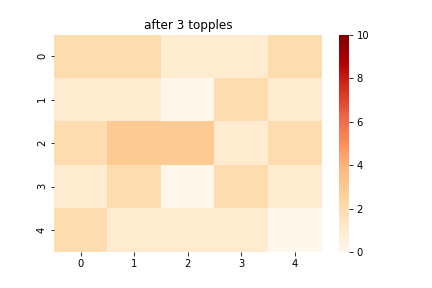
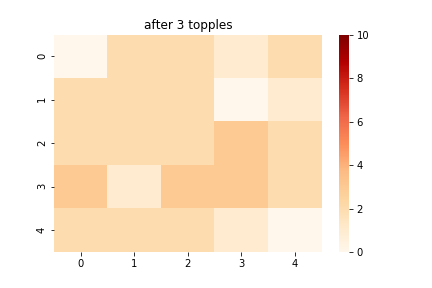
day 4: incorrect stabilizing

Changed region(s): [[0.1204, 0.0938, 0.7523, 0.875]]

diff --git a/sandpile.py b/sandpile.py
@@ -1,5 +1,9 @@
 import numpy as np
 import scipy as sp
+import seaborn as sns
+import sys
+
+sys.setrecursionlimit(10000)
 
 class SandPile():
     """SandPile class
@@ -61,17 +65,21 @@ class SandPile():
 
             coordinates = np.array((x_coordinates, y_coordinates)).T
 
-        for x, y in coordinates:
+            for x, y in coordinates:
 
-            self.grid[x][y] += 1
+                self.grid[x][y] += 1
+
+        else:
+
+            self.grid[site[0], site[1]] += 1
 
 
         self.mass_history = np.append(self.mass_history, n)
         self.time += 1
 
-
-        print(f"grid now:")
-        print(f"{self.grid}")
+        # VERY USEFUL DEBUG LOOK AT EACH GRID
+        # print(f"grid now:")
+        # print(f"{self.grid}")
 
 
     def mass(self):
@@ -163,10 +171,16 @@ class SandPile():
         the avalanche in the appropriate variables.
 
         """
+        centre = [int(self.grid.shape[0]/2), int(self.grid.shape[1]/2)]
+
         # keep dropping sand until there's a topple.
         if self.topples == 0 and np.amax(self.grid) < 4:
 
             self.drop_sand(n)
+            self.time += 1
+
+            np.append(self.mass_history, self.mass())
+
 
         for x in range(self.grid.shape[0]):
             for y in range(self.grid.shape[1]):
@@ -182,8 +196,10 @@ class SandPile():
                     # Update avalanche parameters
 
                     # Keep track of the number of topples,
-                    old = self.topples
+
                     self.topples += 1
+
+                    self.time += 1
 
                     # sand lost
                     self.loss += self.sand_loss(site)
@@ -191,6 +207,8 @@ class SandPile():
                     # Now delete sand at toppling site. It is important to do this
                     # only after calling sand_loss
                     self.grid[site] -= 4
+
+                    np.append(self.mass_history, self.mass())
 
                     #print(self.grid)
 
@@ -210,18 +228,27 @@ class SandPile():
 
                 # At the end of the grid,
                 elif x==(self.grid.shape[0]-1) and y==(self.grid.shape[1] -1):
+                    variation = 1000
+                    # Check if mass has stabilised (TUNE THIS DEFINITION)
+                    if self.time > 50:
+                        variation = 0
+                        stop = int(len(self.mass_history)*0.1)
+                        for i in range(1,stop):
+                            variation = abs(variation + self.mass_history[-i] / self.mass())
+                        #     #print(f"variation {variation}")
 
-                    # Check if there's one sand deletion. If that's the case,
-                    # stop the avalanche.
-                    if self.topples > 2 and self.check_stabilised(old):
-                        print("I have truly stabilised")
+                        # print(f"len {len(self.mass_history)}")
+                        # print(f"stop {stop}")
+                        # print(f"variation {variation}")
+                        # print(f"time {self.time}")
 
-                        return True
+                        if variation < 0.0:
+                            return True
 
-                    # if no 1 sand deletion, drop sand.
+                        # if not stabilised,
                     self.drop_sand(n)
 
-        self.avalanche()
+        self.avalanche(n)
 
 
 
